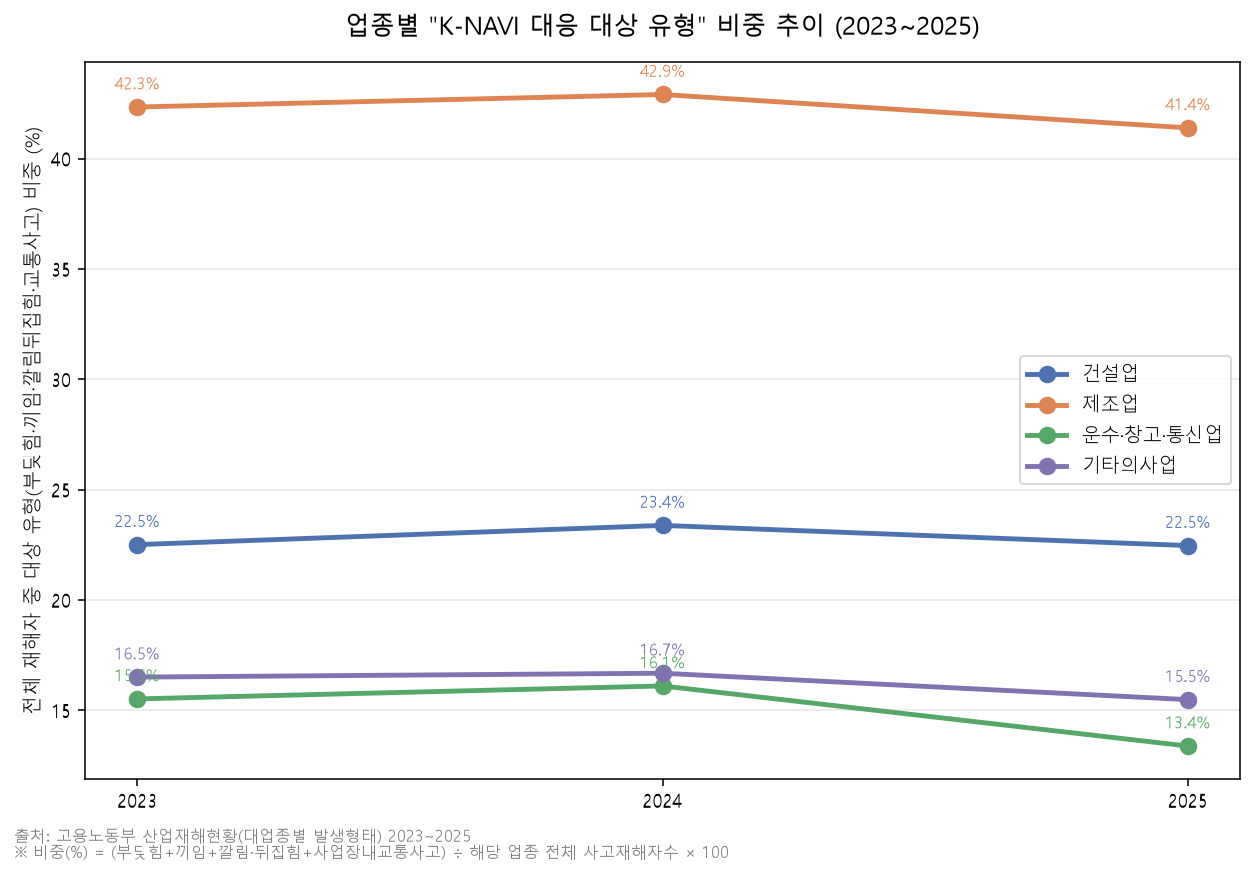
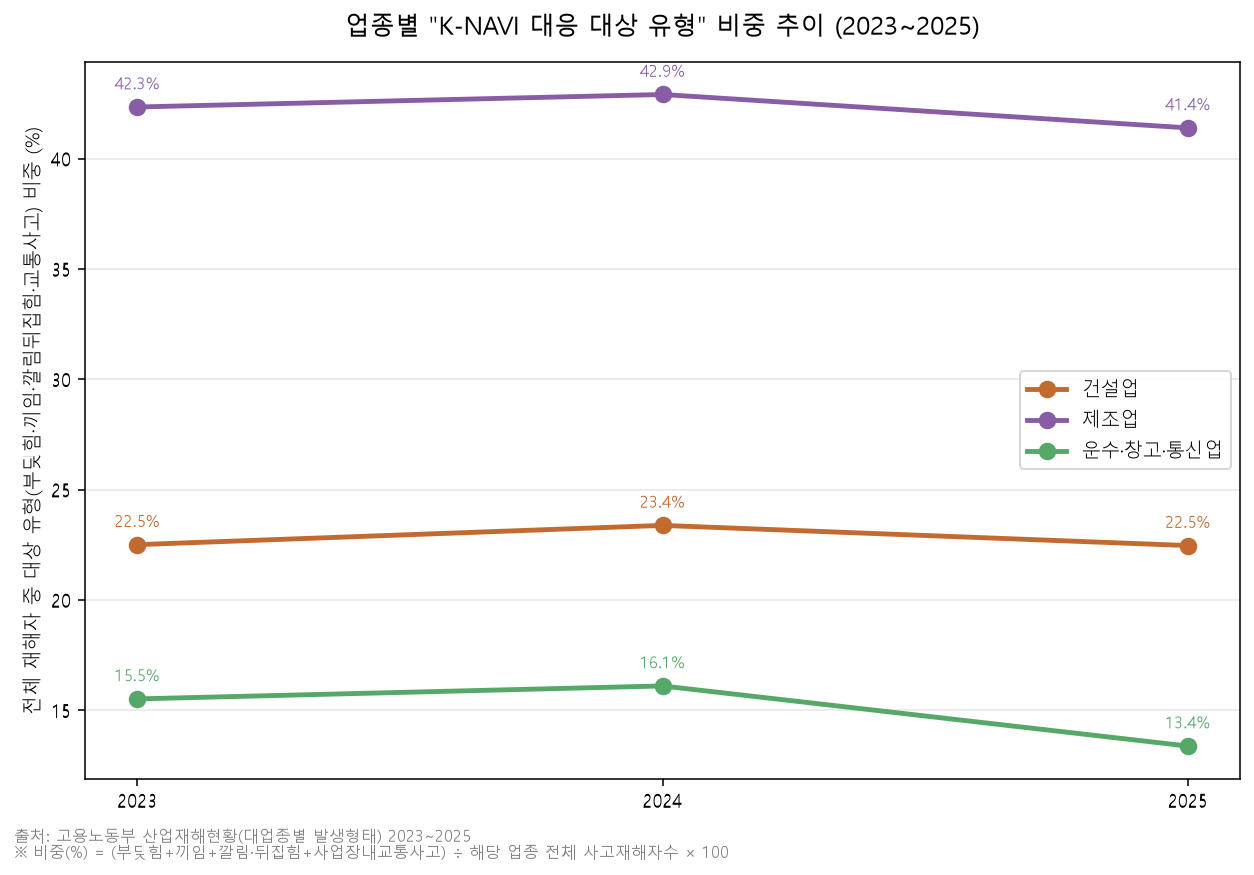
차트 결측치 제거

diff --git a/src/visualizetwo.py b/src/visualizetwo.py
@@ -2,6 +2,8 @@
 ### 로봇밀도가 산업재해를 크게 예방하지 못하고 있고 데이터 비교시 뚜렷하지 않습니다
 ### 로봇에 작업자 수신호 인식과 예측기능을 넣고 사고감소 기대효과를 보면 좋을 것 같습니다 
 ### 고로 실제로 사고감소 효과를 보거나 기대하려면 이런 프로젝트가 꼭 필요해 보입니다 ** 수기작성입니다 ㅎㅎ **
+### 
+### 
 
 import os
 import pandas as pd
@@ -46,7 +48,7 @@ def setup_font():
             break
     else:
         print("경고: 한글 폰트를 찾지 못했습니다. 그래프의 한글이 깨질 수 있습니다.")
-    plt.rcParams['axes.unicode_minus'] = False
+    plt.rcParams['axes.unicode_minus'] = False # 가끔 한글쓸때 - 가 깨지는 경우를 방지해줍니다
     plt.rcParams['figure.dpi'] = 140
 
 
@@ -249,42 +251,105 @@ def make_chart3_industry_hazard_types(data):
     types = ['부딪힘', '끼임', '깔림.뒤집힘', '사업장내교통사고']
     type_labels = ['부딪힘', '끼임', '깔림·뒤집힘', '사업장내교통사고']
 
+    # 표시할 업종만 지정
+    target_industries = [
+        '제조업',
+        '건설업',
+        '운수·창고·통신업'
+    ]
+
     dfs = [data['y23'], data['y24'], data['y25']]
+
     agg = dfs[0][['대업종'] + types].set_index('대업종').copy()
+
     for d in dfs[1:]:
-        agg = agg.add(d[['대업종'] + types].set_index('대업종'), fill_value=0)
-    agg = agg.drop(index='합계')
+        agg = agg.add(
+            d[['대업종'] + types].set_index('대업종'),
+            fill_value=0
+        )
+
+    # 제조업, 건설업, 운수·창고·통신업만 남김
+    agg = agg.loc[
+        agg.index.intersection(target_industries)
+    ]
+
     agg['total'] = agg.sum(axis=1)
     agg = agg.sort_values('total', ascending=True)
 
     colors = ['#4C72B0', '#DD8452', '#55A868', '#C44E52']
 
-    fig, ax = plt.subplots(figsize=(10, 6.5))
+    fig, ax = plt.subplots(figsize=(10, 5))
+
     left = np.zeros(len(agg))
+
     for t, lbl, c in zip(types, type_labels, colors):
-        ax.barh(agg.index, agg[t], left=left, color=c, label=lbl)
+        ax.barh(
+            agg.index,
+            agg[t],
+            left=left,
+            color=c,
+            label=lbl
+        )
         left += agg[t].values
 
     for i, (idx, row) in enumerate(agg.iterrows()):
-        ax.text(row['total'] + 200, i, f"{int(row['total']):,}명", va='center', fontsize=9)
+        ax.text(
+            row['total'] + 200,
+            i,
+            f"{int(row['total']):,}명",
+            va='center',
+            fontsize=9
+        )
 
-    ax.set_xlabel('사고재해자수 (명, 2023~2025년 합산)', fontsize=11)
-    ax.set_title('대업종별 사고재해자 발생형태 — 부딪힘·끼임·깔림·뒤집힘·사업장내교통사고\n'
-                 '(2023~2025년 합산, K-NAVI 대응 대상 유형)', fontsize=12.5, pad=14)
-    ax.legend(loc='lower right', fontsize=10, framealpha=0.9)
-    ax.set_xlim(0, agg['total'].max() * 1.18)
+    ax.set_xlabel(
+        '사고재해자수 (명, 2023~2025년 합산)',
+        fontsize=11
+    )
 
-    fig.text(0.01, -0.03,
-              "출처: 고용노동부 산업재해현황(대업종별 발생형태) 2023~2025년 합산\n"
-              "※ 시인성을 위해 발생형태 25종 중 K-NAVI 대응 대상인 4개 유형만 표시",
-              fontsize=8, color='gray', ha='left')
+    ax.set_title(
+        '제조업·건설업·운수·창고·통신업의 사고재해 발생형태\n'
+        '(2023~2025년 합산, K-NAVI 대응 대상 유형)',
+        fontsize=12.5,
+        pad=14
+    )
+
+    ax.legend(
+        loc='lower right',
+        fontsize=10,
+        framealpha=0.9
+    )
+
+    ax.set_xlim(
+        0,
+        agg['total'].max() * 1.18
+    )
+
+    fig.text(
+        0.01,
+        -0.03,
+        "출처: 고용노동부 산업재해현황(대업종별 발생형태) 2023~2025년 합산\n"
+        "※ 제조업·건설업·운수·창고·통신업만 표시",
+        fontsize=8,
+        color='gray',
+        ha='left'
+    )
 
     plt.tight_layout()
-    out_path = os.path.join(OUT_DIR, '05_대업종별_사고재해자_발생형태.png')
-    plt.savefig(out_path, bbox_inches='tight', facecolor='white')
-    plt.close(fig)
-    print(f"저장됨: {out_path}")
 
+    out_path = os.path.join(
+        OUT_DIR,
+        '05_제조업_건설업_운수창고통신업_사고재해자_발생형태.png'
+    )
+
+    plt.savefig(
+        out_path,
+        bbox_inches='tight',
+        facecolor='white'
+    )
+
+    plt.close(fig)
+
+    print(f"저장됨: {out_path}")
 
 # ------------------------------------------------------------
 # 차트 4 (보너스): 전산업 재해정도 구성비 추이
@@ -337,12 +402,12 @@ def make_chart4_severity_trend(data):
 # ------------------------------------------------------------
 def make_chart5_target_share_trend(data):
     types = ['부딪힘', '끼임', '깔림.뒤집힘', '사업장내교통사고']
-    industries = ['건설업', '제조업', '운수·창고·통신업', '기타의사업']
+    industries = ['건설업', '제조업', '운수·창고·통신업']
     years = [2023, 2024, 2025]
     dfs = {2023: data['y23'], 2024: data['y24'], 2025: data['y25']}
 
-    colors = {'건설업': '#4C72B0', '제조업': '#DD8452',
-              '운수·창고·통신업': '#55A868', '기타의사업': '#8172B2'}
+    colors = {'건설업': "#C26A2F", '제조업': "#885DA5",
+              '운수·창고·통신업': '#55A868'}
 
     fig, ax = plt.subplots(figsize=(9, 6))
     for ind in industries:
